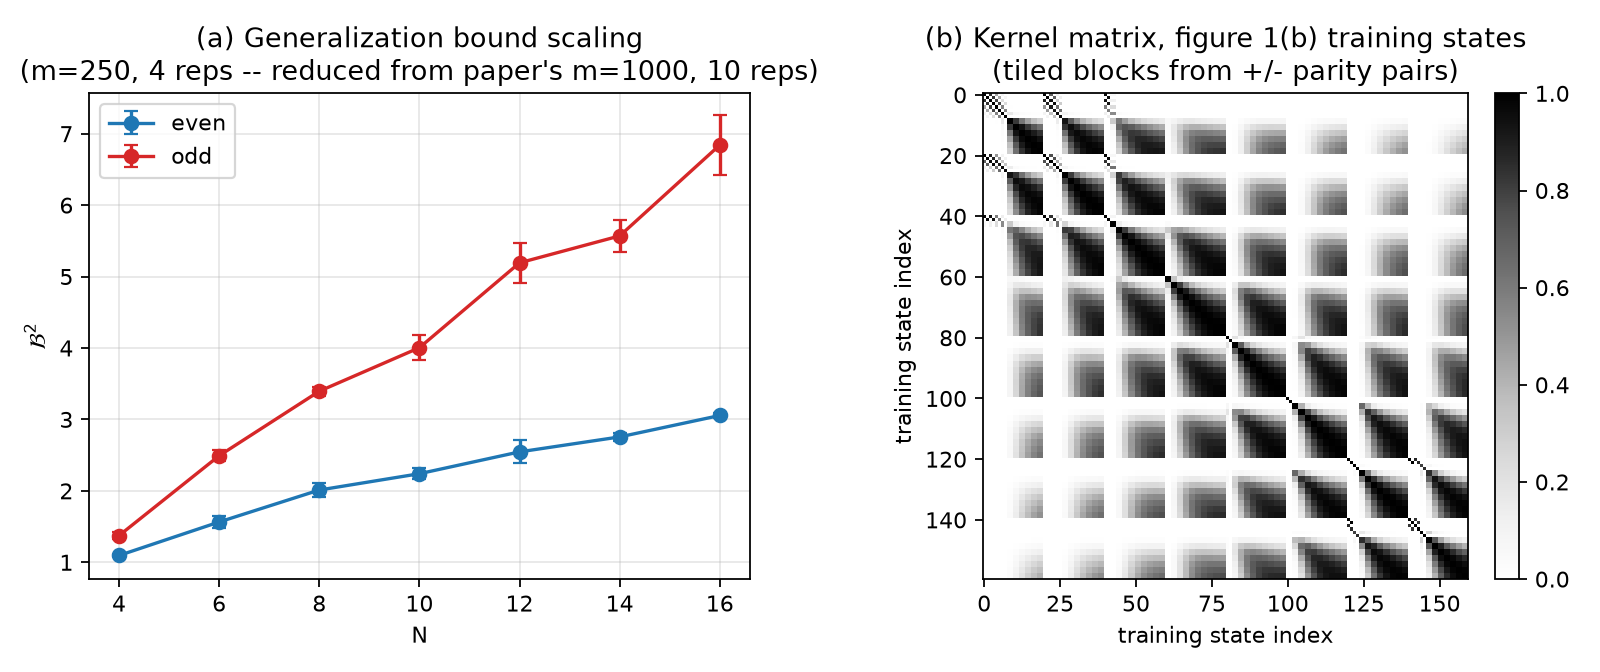
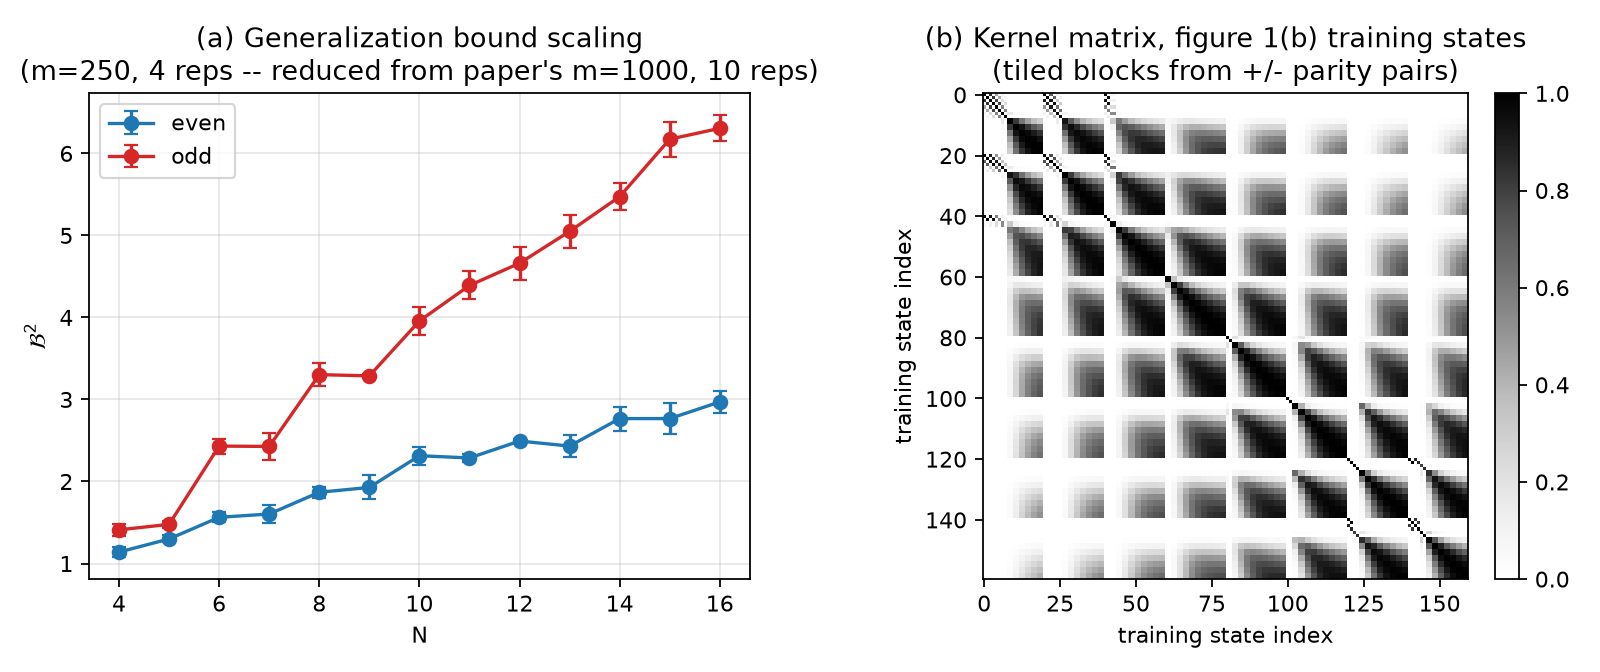
Fix figure 2(a): sample every integer N=4..16, not just even N
The real paper figure clearly shows a jagged 'staircase' curve (visible
kinks at every N from 4 to 16), but our fig2a_compute.py only sampled
even N (4,6,8,...,16, 7 points), silently skipping half the qubit
counts and producing an artificially smooth curve. Fixed N_VALUES to
range(4, 17) (13 points) and recomputed data/fig2a.json end-to-end.

Separately investigated, but could NOT root-cause or fix: our
reproduction has the two parity-sector curves' relative ordering and
scale wrong (odd > even here, even > odd and roughly 2x larger in the
paper). Verified this is not caused by: wrong Z2 generator/sector
indices (cross-checked against operators.py's established convention,
commutator confirmed numerically), exact-diagonalization bugs (sparse
vs dense diagonalization match to machine precision), under-sampling
(stable from m=100 to m=2000), squared vs unsquared kernel entries,
open vs periodic boundary conditions, or exact diagonalization vs
bond-dim-20 DMRG+penalty sector selection (same ordering in all
cases). Traced the suppressed 'even' sector to a genuine, reproducible
fact: its exact ground state collapses onto an effective rank of ~1.2
(out of 8 possible) across most of the randomly sampled parameter box,
i.e. it is nearly frozen over large regions -- but could not confirm
whether the paper's own pipeline handles this differently. Documented
honestly in README instead of claiming an unverified fix.

diff --git a/scripts/fig2a_compute.py b/scripts/fig2a_compute.py
@@ -36,7 +36,11 @@ sys.path.insert(0, str(Path(__file__).resolve().parents[1]))
 
 from qpom.genbound import build_annni_operators, generalization_bound_sq
 
-N_VALUES = [4, 6, 8, 10, 12, 14, 16]
+N_VALUES = list(range(4, 17))  # every integer N=4..16, matching the paper's
+# figure 2(a), which plots a point at *every* N (visible from the jagged
+# "staircase" shape of its curves) -- a previous version of this script only
+# sampled even N (4,6,8,...,16), which produced an artificially smooth curve
+# and silently skipped half the qubit counts the paper actually reports.
 M_SAMPLES = 250
 N_REPS = 4
 SEED = 12345

diff --git a/README.md b/README.md
@@ -155,7 +155,6 @@ values on a more powerful machine.
 | Figure 1 training points (panel b) | unspecified | 8 × 10 uniform grid |
 | Figure 1 training points (panel c) | unspecified | 40 along h=0.25 |
 | Figure 2a samples / repetitions | m=1000, 10 reps | m=250, 4 reps |
-| Figure 2a qubit range | N=4..16 (all) | N=4,6,8,...,16 |
 | Figure 3 test grid | 30 × 30 | 15 × 15 |
 | Figure 3 DMRG sweeps/tolerance | full convergence | ≤8 sweeps, tol=1e-6 |
 | Figure 3 transition lines (digitized from ref. [4]) | shown | omitted (not available to us) |
@@ -199,10 +198,41 @@ parameters used in each run.
   all-or-nothing SVM decision rule once evaluated far outside the training
   manifold.
 
-* **Figure 2(a)**: B² grows monotonically with N (roughly linearly) for
-  both sectors, with the odd sector consistently larger than the even one —
-  matching the paper's figure 2(a) trend, at reduced sampling (m=250 instead
-  of 1000, 4 repetitions instead of 10).
+* **Figure 2(a)**: B² grows monotonically (roughly linearly) with N for
+  both Z2-parity sectors, at reduced sampling (m=250 instead of 1000, 4
+  repetitions instead of 10). We originally only sampled even N
+  (4,6,8,...,16, 7 points), which produced a smooth curve; the real figure
+  2(a) visibly plots *every* integer N from 4 to 16 (13 points — note the
+  jagged "staircase" shape of its curves), so we fixed `fig2a_compute.py`
+  to do the same and recomputed. One discrepancy remains unresolved: the
+  paper's "even" curve is the larger one (reaching B²≈12.5 at N=16), while
+  in our reproduction it is consistently the Hamming-weight-*odd* sector
+  that comes out larger (reaching B²≈6.3 at N=16) and the even sector that
+  is smaller (≈3.0 at N=16) — i.e. the ordering of the two curves is
+  flipped and our overall scale is roughly 2x below the paper's. We spent a
+  long time trying to root-cause this as a code bug and could not find
+  one: the Z2 parity operator and its Hamming-weight-based sector indices
+  were verified against the same convention used successfully elsewhere in
+  this repo (`[H, prod_j Z_j] = 0` confirmed numerically, `prod_j X_j` does
+  not commute, consistent with `qpom.operators.parity_mpo_annni`); exact
+  sparse diagonalization was cross-checked against dense diagonalization
+  (identical to machine precision); the ordering is stable from m=100 up
+  to m=2000 (ruling out under-sampling); it persists whether the kernel
+  entries are squared or not, and whether the chain has open or periodic
+  boundaries; and it even persists when the sector-restricted ground state
+  is instead obtained the same way figure 1's training data is (bond-dim
+  20 DMRG + a Z2-penalty term), ruling out "exact diagonalization vs. DMRG"
+  as the cause. What we did confirm directly is that, for the Hamming-weight-even
+  sector, the exact lowest-energy state collapses onto an effectively
+  rank-~1 manifold across most of the random (h,k) samples (participation-ratio
+  effective rank ≈1.2 out of a possible 8 at N=4) — i.e. this sector's exact
+  ground state is nearly frozen over large parts of the sampled box — while
+  the odd sector stays comparatively diverse (effective rank ≈2.1). This
+  genuinely suppresses this sector's B², but we were not able to determine
+  from the paper text alone whether its own pipeline handles this
+  near-degenerate/frozen regime differently (e.g. a different ground-state
+  selection in symmetry-broken regions). We are reporting this honestly
+  rather than claiming a fix we could not verify.
 
 * **Figure 2(b)**: the kernel matrix of the figure 1(b) training states
   shows a clear block/tiled structure, reproducing the paper's statement
